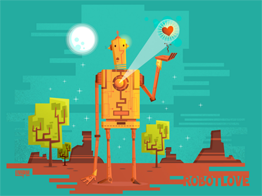
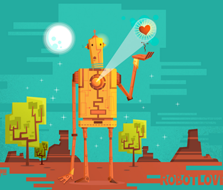
fix: portfolio pixel perfect and img

diff --git a/singolo2.html b/singolo2.html
@@ -32,40 +32,40 @@
 
     <div class="portfolio">
         <a class="portfolio__img-link" href="#">
-            <img class="portfolio__img-img" src="assets/portfolio-images/Project1.png" alt="Project #1" width="223" height="190">
+            <img class="portfolio__img-img" src="assets/portfolio-images/Project1.png" alt="Project #1" width="220" height="186">
         </a>
         <a class="portfolio__img-link" href="#">
-            <img class="portfolio__img-img" src="assets/portfolio-images/Project2.png" alt="Project #2" width="223" height="190">
+            <img class="portfolio__img-img" src="assets/portfolio-images/Project2.png" alt="Project #2" width="220" height="186">
         </a>
         <a class="portfolio__img-link" href="#">
-            <img class="portfolio__img-img" src="assets/portfolio-images/Project3.png" alt="Project #3" width="223" height="190">
+            <img class="portfolio__img-img" src="assets/portfolio-images/Project3.png" alt="Project #3" width="220" height="186">
         </a>
         <a class="portfolio__img-link" href="#">
-            <img class="portfolio__img-img" src="assets/portfolio-images/Project4.png" alt="Project #4" width="223" height="190">
+            <img class="portfolio__img-img" src="assets/portfolio-images/Project4.png" alt="Project #4" width="220" height="187">
         </a>
         <a class="portfolio__img-link" href="#">
-            <img class="portfolio__img-img" src="assets/portfolio-images/Project5.png" alt="Project #5" width="223" height="190">
+            <img class="portfolio__img-img" src="assets/portfolio-images/Project5.png" alt="Project #5" width="220" height="187">
         </a>
         <a class="portfolio__img-link" href="#">
-            <img class="portfolio__img-img" src="assets/portfolio-images/Project6.png" alt="Project #6" width="223" height="190">
+            <img class="portfolio__img-img" src="assets/portfolio-images/Project6.png" alt="Project #6" width="220" height="187">
         </a>
         <a class="portfolio__img-link" href="#">
-            <img class="portfolio__img-img" src="assets/portfolio-images/Project7.png" alt="Project #7" width="223" height="190">
+            <img class="portfolio__img-img" src="assets/portfolio-images/Project7.png" alt="Project #7" width="220" height="187">
         </a>
         <a class="portfolio__img-link" href="#">
-            <img class="portfolio__img-img" src="assets/portfolio-images/Project8.png" alt="Project #8" width="223" height="190">
+            <img class="portfolio__img-img" src="assets/portfolio-images/Project8.png" alt="Project #8" width="220" height="187">
         </a>
         <a class="portfolio__img-link" href="#">
-            <img class="portfolio__img-img" src="assets/portfolio-images/Project9.png" alt="Project #9" width="223" height="190">
+            <img class="portfolio__img-img" src="assets/portfolio-images/Project9.png" alt="Project #9" width="220" height="187">
         </a>
         <a class="portfolio__img-link" href="#">
-            <img class="portfolio__img-img" src="assets/portfolio-images/Project10.png" alt="Project #10" width="223" height="190">
+            <img class="portfolio__img-img" src="assets/portfolio-images/Project10.png" alt="Project #10" width="220" height="187">
         </a>
         <a class="portfolio__img-link" href="#">
-            <img class="portfolio__img-img" src="assets/portfolio-images/Project11.png" alt="Project #11" width="223" height="190">
+            <img class="portfolio__img-img" src="assets/portfolio-images/Project11.png" alt="Project #11" width="220" height="187">
         </a>
         <a class="portfolio__img-link" href="#">
-            <img class="portfolio__img-img" src="assets/portfolio-images/Project12.png" alt="Project #12" width="223" height="190">
+            <img class="portfolio__img-img" src="assets/portfolio-images/Project12.png" alt="Project #12" width="220" height="187">
         </a>
     </div>
 </header>
@@ -80,7 +80,7 @@
 
     <div class="main__wrapper-we">
         <div class="main__wrapper-we1">
-            <img src="assets/employees-photo/adam.png" class="main__wrapper-adam" height="302" width="302" alt="Adam Jensen">
+            <img src="assets/employees-photo/adam.png" class="main__wrapper-adam" height="300" width="300" alt="Adam Jensen">
             <h3 class="main__wrapper-adam-head">
                 Adam Jensen
             </h3>
@@ -114,7 +114,7 @@
         </div>
 
         <div class="main__wrapper-we2">
-            <img src="assets/employees-photo/desmond.png" class="main__wrapper-desmond" height="302" width="302" alt="Desmond Miles">
+            <img src="assets/employees-photo/desmond.png" class="main__wrapper-desmond" height="300" width="300" alt="Desmond Miles">
             <h4 class="main__wrapper-desmond-head">
                 Desmond Miles
             </h4>
@@ -148,7 +148,7 @@
         </div>
 
         <div class="main__wrapper-we3">
-            <img src="assets/employees-photo/scolara.png" class="main__wrapper-adam" height="302" width="302" alt="Scolara Visari">
+            <img src="assets/employees-photo/scolara.png" class="main__wrapper-adam" height="300" width="300" alt="Scolara Visari">
             <h5 class="main__wrapper-scolara-head">
                 Scolara Visari
             </h5>

diff --git a/singolo2.css b/singolo2.css
@@ -25,7 +25,7 @@ body{
 }
 .header{
     background-color: #2d303a;
-    padding: 65px 41px;
+    padding: 60px 41px 50px 41px;
     border-bottom: 6px solid #323746;
 }
 .header__head{
@@ -33,22 +33,24 @@ body{
     font-size: 30px;
     color: #666d89;
     text-align: justify;
-    padding-bottom: 33px;
+    padding-bottom: 22px;
 }
 .header__text{
     font-family: Lato-Light, AdobeInvisFont, MyriadPro-Regular;
     font-size: 18px;
     color: rgba(118, 126, 158, 255);
     text-align: justify;
-    padding-bottom: 18px;
+    padding-bottom: 16px;
+    letter-spacing: -0.23px;
+    font-weight: 400;
 }
 ul{
-    padding-bottom: 18px;
+    padding-bottom: 20px;
 }
 .header__nav-list{
     text-decoration: none;
     display: inline;
-    padding-right: 10px;
+    padding-right: 5px;
 }
 .header__nav-link{
     text-decoration: none;
@@ -58,7 +60,9 @@ ul{
     font-family: Lato-Bold, AdobeInvisFont, MyriadPro-Regular;
     border: 1px solid #666d89;
     border-radius: 5px;
-    padding: 7px;
+    padding: 3px 6px;
+    line-height: 20px;
+
 }
 .header__nav-link:hover{
     color: #dedede;
@@ -84,21 +88,24 @@ ul{
     border-bottom: 6px solid #ffffff;
 }
 .main__wrapper{
-    padding: 66px 40px;
+    padding: 60px 40px 42px 40px;
 }
 .main__head{
     font-family: Lato-Black, AdobeInvisFont, MyriadPro-Regular;
     font-size: 30px;
     color: #666d89;
     text-align: justify;
-    padding-bottom: 33px;
+    padding-bottom: 18px;
 }
 .main__text{
     font-family: Lato-Light, AdobeInvisFont, MyriadPro-Regular;
     font-size: 18px;
     color: #666699;
     text-align: justify;
-    padding-bottom: 49px;
+    padding-bottom: 44px;
+    line-height: 30px;
+    font-weight: 300;
+    letter-spacing: -0.22px;
 }
 .main__wrapper-we{
     display: flex;
@@ -117,7 +124,7 @@ ul{
     font-size: 18px;
     color: rgba(102, 109, 137, 255);
     text-align: justify;
-    padding-top: 15px;
+    padding-top: 10px;
 }
 .main__wrapper-scorala-text,
 .main__wrapper-adam-text,
@@ -126,16 +133,18 @@ ul{
     font-size: 12px;
     color: rgba(118, 126, 158, 255);
     text-align: justify;
-    padding-top: 18px;
+    padding-top: 10px;
+    line-height: 20px;
+    letter-spacing: -0.144px;
 }
 .main__wrapper-social-list{
     text-decoration: none;
     display: inline;
-    padding-right: 5px;
+    padding-right: 2px;
 }
 .main__wrapper-social-link{
     text-decoration: none;
 }
 .main__wrapper-social{
-    padding-top: 28px;
+    padding-top: 23px;
 }
